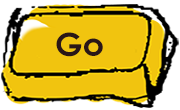
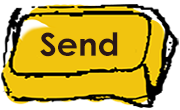
add

Changed region(s): [[0.2222, 0.2727, 0.6667, 0.5182]]

diff --git a/songsadded.html b/songsadded.html
@@ -164,7 +164,7 @@
                         <p>Introduction :</p>
                         <textarea name="" id="" cols="68" rows="6" style="border: 1px solid #d0d6d6;"></textarea>
                     </div>
-                    <section><input type="submit" value="Send" style="background-image: url(img\songupload\button_send.png);"></section>
+                    <section><input type="image" name="submit" src="./img/songupload/button_send.png" onClick="document.form.submit()" style="width:70px;height:50px;"></section>
                 </form>
 
             </ul>
